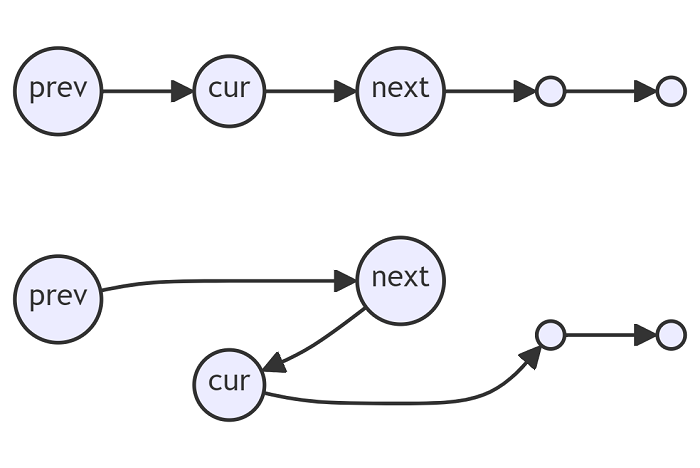
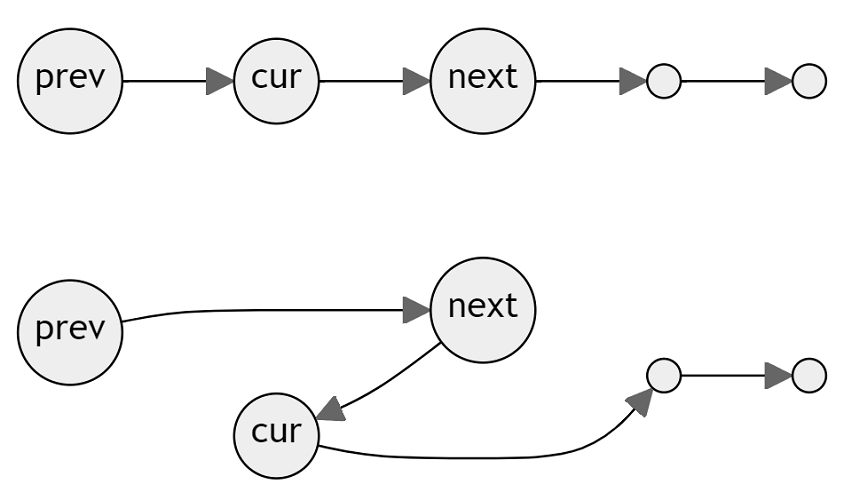
reduce print, font size and image stroke

Changed region(s): [[0.0, 0.4786, 0.99, 0.9573], [0.0, 0.0299, 0.99, 0.2991]]

diff --git a/docs/source/mermaid.js b/docs/source/mermaid.js
@@ -1,0 +1,45 @@
+// Config
+// {
+//     "theme": "neutral"
+// }
+
+flowchart LR
+    classDef default stroke:black;
+    linkStyle default stroke-width:1px, stroke:black;
+
+    // 160_example_1_1
+    A: ~~~~ F1((4))--> O1((1))-->E((8))-->F((4))-->Fi((5))
+    B: ~~~ F2((5))-->S((6))-->O2((1))-->E
+
+    // 160_example_2
+    A: ~~~ O1((1))--> N1((9))-->O2((1))-->T((2))-->F((4))
+    B: ~~~~~ Tr((3))-->T
+
+    // 160_example_3
+    A: ~~~ T1((2))--> S1((6))-->F1((4))
+    B: ~~~~ O2((1))-->F2((5))
+
+
+// %% 24_drawing_1
+A((prev))--> B((cur))-->C((next))-->D((" "))-->E((" "))
+A1((prev))~~~B1((cur))~~~C1((next))~~~D1((" "))-->E1((" "))
+A1-->C1-->B1-->D1
+
+
+// %% 141_circularlinkedlist
+A((3))--> B((2))-->C((0))-->D(("-4"))-->B
+// %% 141_circularlinkedlist_test2
+    A((1))--> B((2))-->A
+
+// %% 141_circularlinkedlist_test3
+    A((1))
+    
+%% 876_lc-midlist1
+    %% A((1))--> B((2))-->C((3))-->D((4))-->E((5))
+
+    %% style C fill:#aaa, stroke-width:2px, stroke:black;
+
+%% 876_lc-midlist2
+    %% A((1))--> B((2))-->C((3))-->D((4))-->E((5))-->F((6))
+    
+    %% style D fill:#aaa, stroke-width:2px, stroke:black;

diff --git a/docs/source/conf.py b/docs/source/conf.py
@@ -17,7 +17,7 @@ project = 'LeetSolve'
 copyright = '2024, Nhut Nguyen'
 author = 'Nhut Nguyen'
 
-version = '1.2.3'
+version = '1.3.0'
 
 # -- General configuration
 
@@ -66,11 +66,11 @@ latex_elements = {
     # The paper size ('letterpaper' or 'a4paper').
     #
     # 'papersize': 'letterpaper',
-    # 'sphinxsetup': 'hmargin={1in,1in}, vmargin={1in,1in}',
+    'sphinxsetup': 'hmargin={2cm,2cm}, vmargin={2cm,2cm}',
 
     # The font size ('10pt', '11pt' or '12pt').
     #
-    'pointsize': '11pt',
+    'pointsize': '10pt',
 
     # Additional stuff for the LaTeX preamble.
     #
@@ -80,7 +80,7 @@ latex_elements = {
     \usepackage{inconsolata}
     \definecolor{TitleColor}{rgb}{0,0,0}
     \definecolor{InnerLinkColor}{rgb}{0,0,0}
-    \usepackage[paperwidth=7.5in,paperheight=9.25in]{geometry}
+    \usepackage[paperwidth=17cm,paperheight=22cm]{geometry}
     \addto\captionsenglish{\renewcommand{\contentsname}{Contents}}
     \setcounter{tocdepth}{1}
     ''',

diff --git a/docs/source/copyright.tex b/docs/source/copyright.tex
@@ -12,7 +12,7 @@ latex_show_urls = 'footnote'
 % ------
 
 % \fvset{fontsize=auto}
-\usepackage[paperwidth=7.5in,paperheight=9.25in]{geometry}
+\usepackage[paperwidth=17cm,paperheight=22cm]{geometry}
 
 \date{March, 2024}
 % \begin{document}

diff --git a/docs/source/thanks.md b/docs/source/thanks.md
@@ -1,7 +1,20 @@
 # Thank you!
 
+Dear Readers,
 
-   
-Thank you for taking the time to read my first published book. I would love to hear your thought about this book. 
+Thank you for reading my book! Your support means the world to me. If you enjoyed the book and would like to share your thoughts, I would greatly appreciate it if you could leave a review.
+
+
+To learn how to leave a review, subscribe to the newsletter, and join our vibrant reader community, please visit the book's homepage. Your feedback and engagement help shape the future of our community, and I'm excited to connect with you further.
+
+[^url]: https://theproblemsolversguidetocoding.com
+
+Again, Thank you for your support and for participating in this journey.
+
 
 I hope it has been a valuable experience and that you are excited to continue your coding journey. Best of luck with your coding challenges, and remember to have fun along the way!
+
+
+Warm regards,   
+
+Nhut Nguyen, Ph.D.
